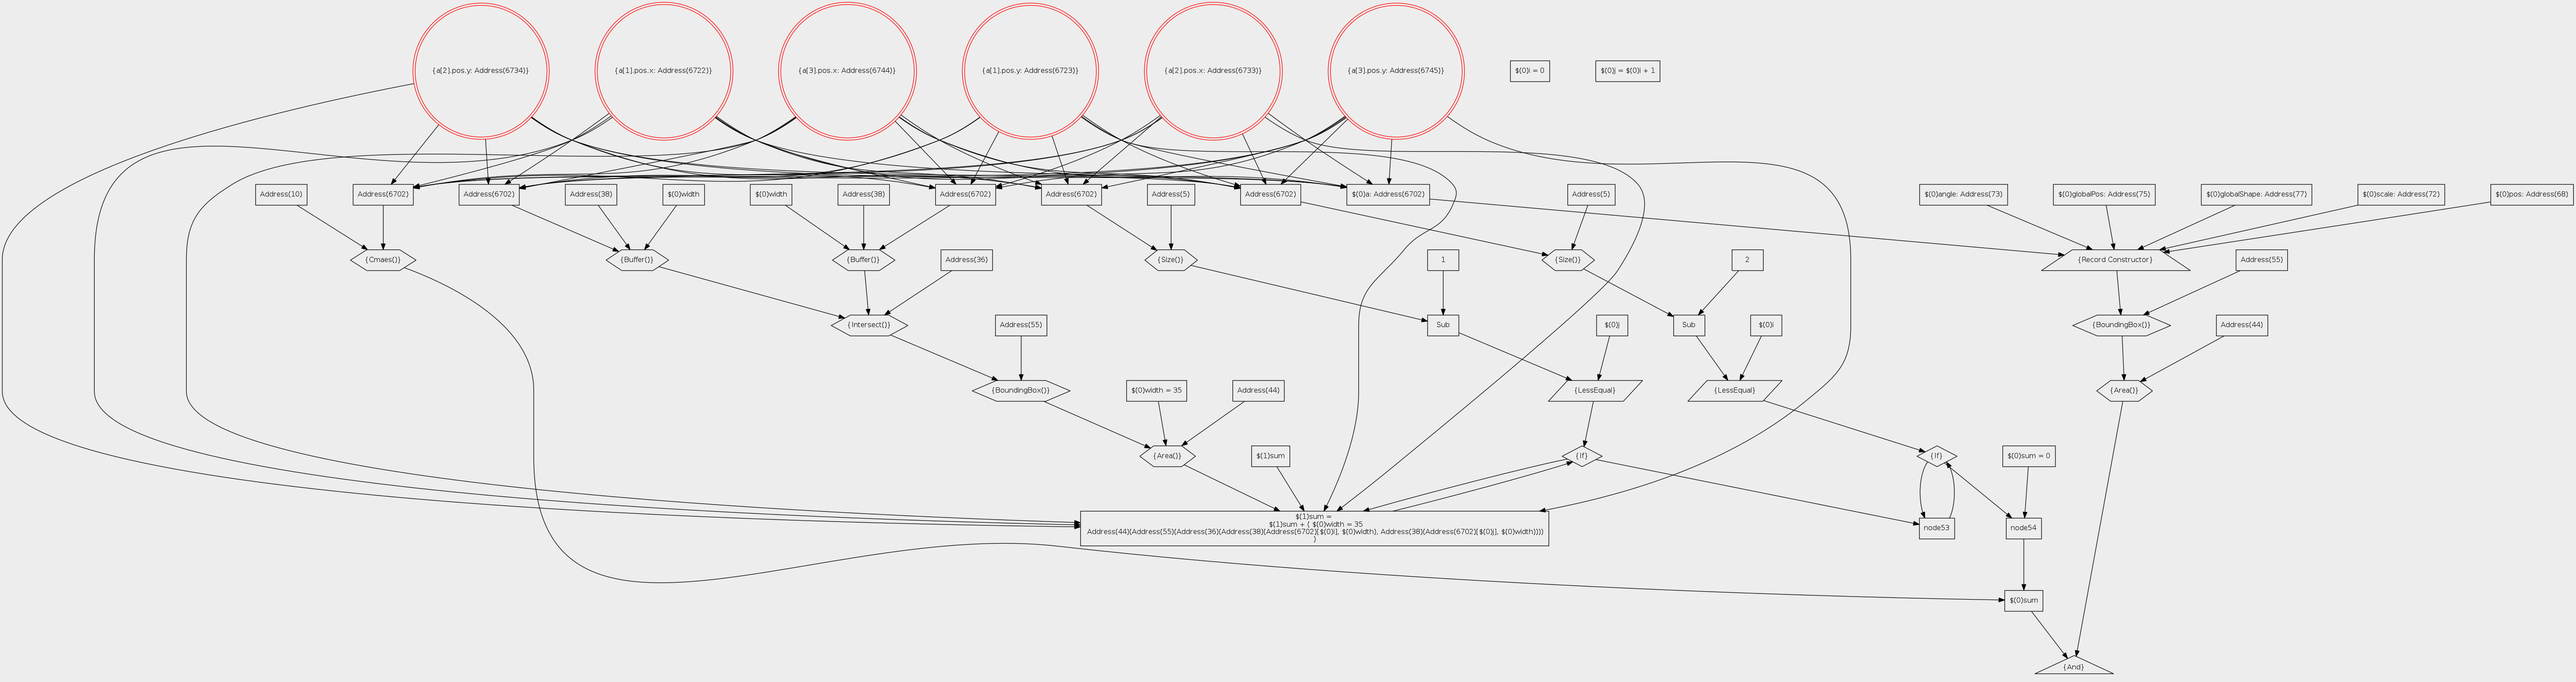
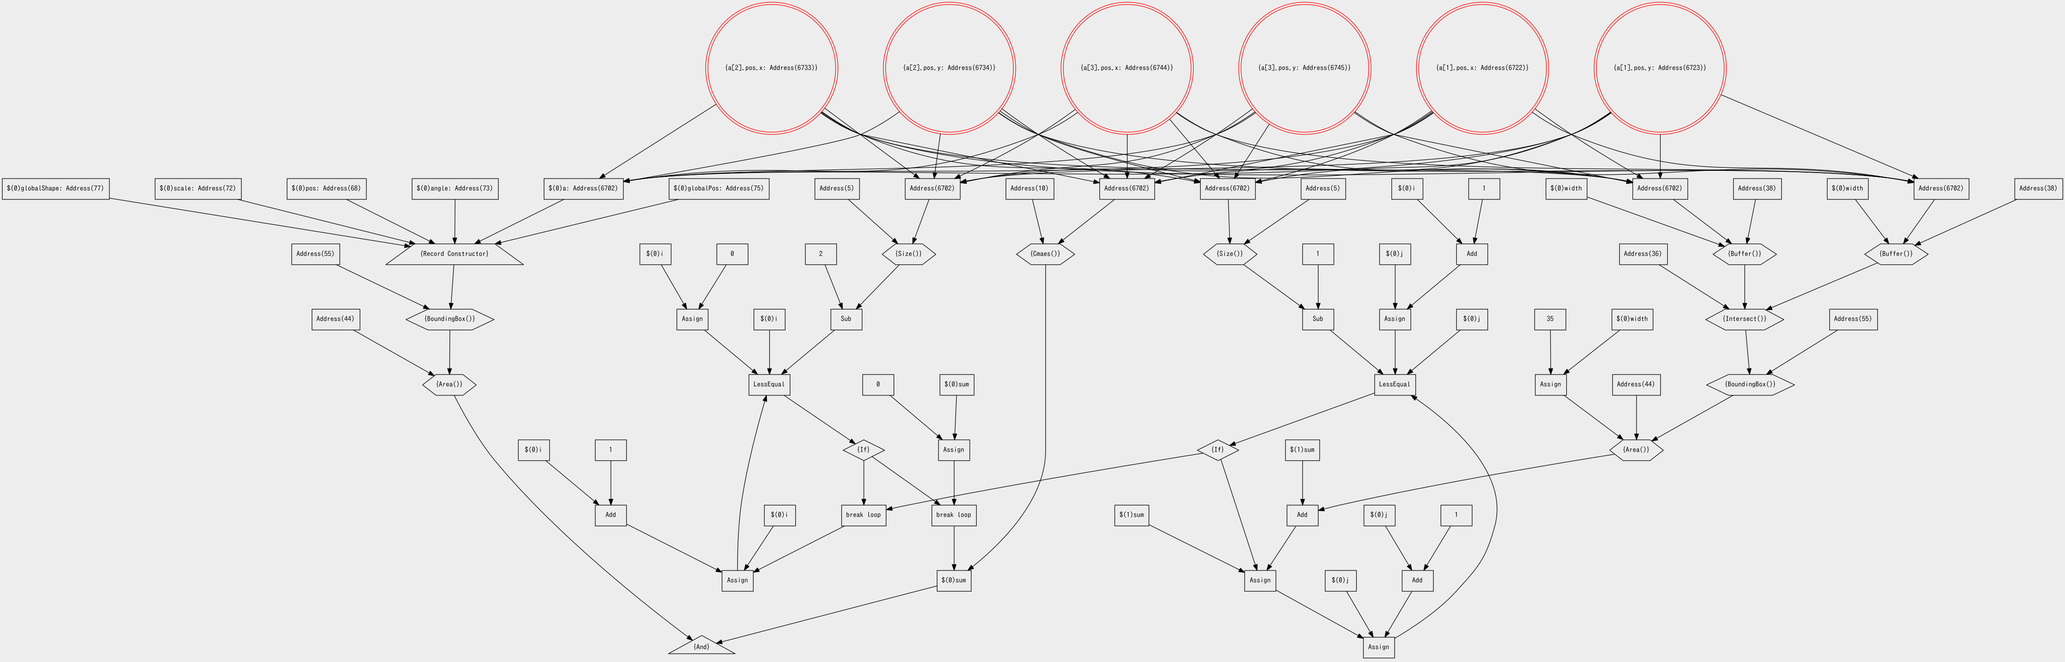
temp

diff --git a/source/Evaluator.cpp b/source/Evaluator.cpp
@@ -496,6 +496,7 @@ namespace cgl
 			boost::apply_visitor(eval, evalExpr);
 			std::cout << indent() << "====== Eval(end)   Line(" << __LINE__ << ")" << std::endl;
 
+			//*
 			For result;
 			result.rangeStart = boost::apply_visitor(*this, node.rangeStart);
 			result.rangeEnd = boost::apply_visitor(*this, node.rangeEnd);
@@ -503,6 +504,35 @@ namespace cgl
 			result.doExpr = boost::apply_visitor(*this, node.doExpr);
 			result.asList = node.asList;
 			return result.setLocation(node);
+			//*/
+
+			/*
+			Expr startExpr = VersionReduced(node.rangeStart);
+			Expr endExpr = VersionReduced(node.rangeStart);
+
+			Eval eval(pContext);
+			const Val startVal = pContext->expand(boost::apply_visitor(eval, startExpr), LocationInfo());
+			const Val endVal = pContext->expand(boost::apply_visitor(eval, endExpr), LocationInfo());
+
+			if (IsType<int>(startVal) && IsType<int>(endVal))
+			{
+				for (int i = As<int>(startVal); i <= As<int>(endVal); ++i)
+				{
+					i;
+				}
+			}
+			else if (IsType<double>(startVal) && IsType<double>(endVal))
+			{
+			}
+			else
+			{
+				CGL_Error("ループカウンタが型が不正");
+			}
+
+			node.loopCounter;
+
+			node.doExpr;
+			//*/
 		}
 
 		Expr operator()(const ListConstractor& node)override { return ExprTransformer::operator()(node); }

diff --git a/source/Graph.cpp b/source/Graph.cpp
@@ -886,7 +886,8 @@ namespace cgl
 
 		const size_t elseNodeIndex = (node.else_expr
 			? boost::apply_visitor(child, node.else_expr.get())
-			: graph.addNode(CFGNodeNull())
+			//: graph.addNode(CFGNodeNull())
+			: graph.addNode(CFGNodeBlock(Identifier("break loop")))
 			);
 		ifNode.noIndex = elseNodeIndex;
 		info.ifElseIndex = elseNodeIndex;
